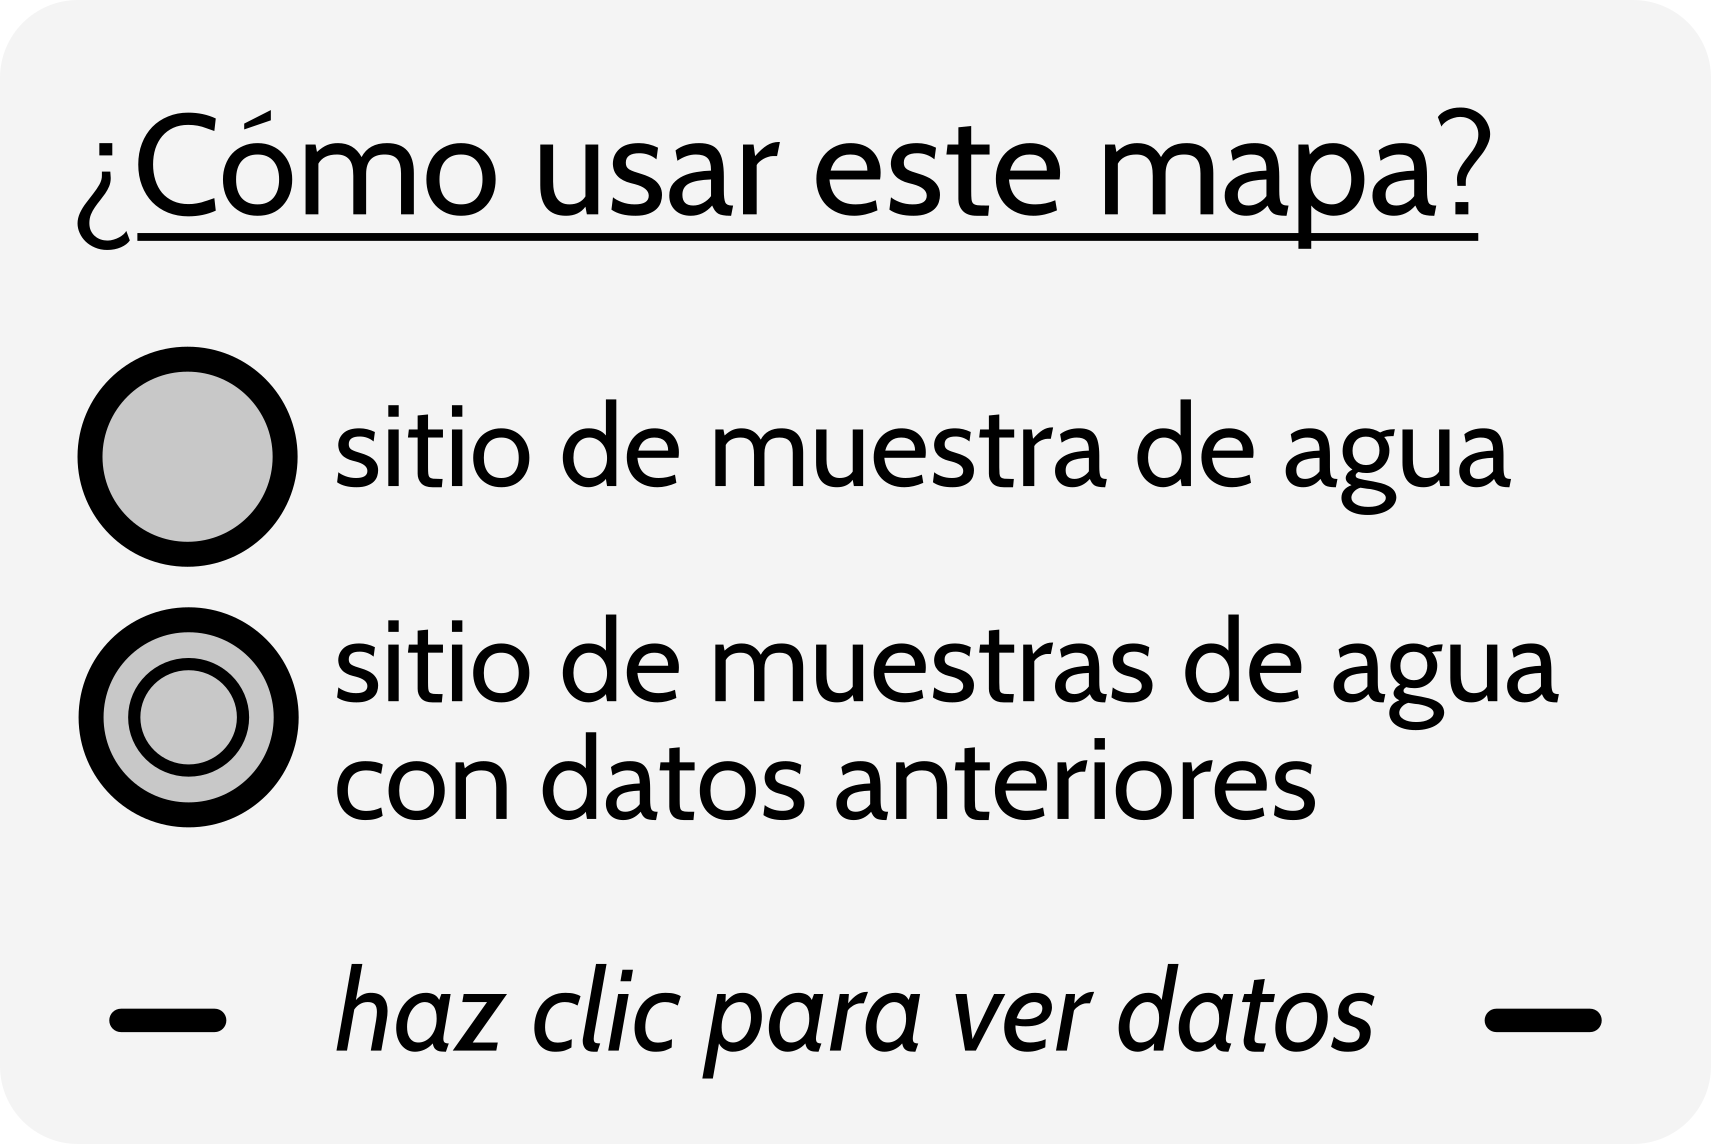
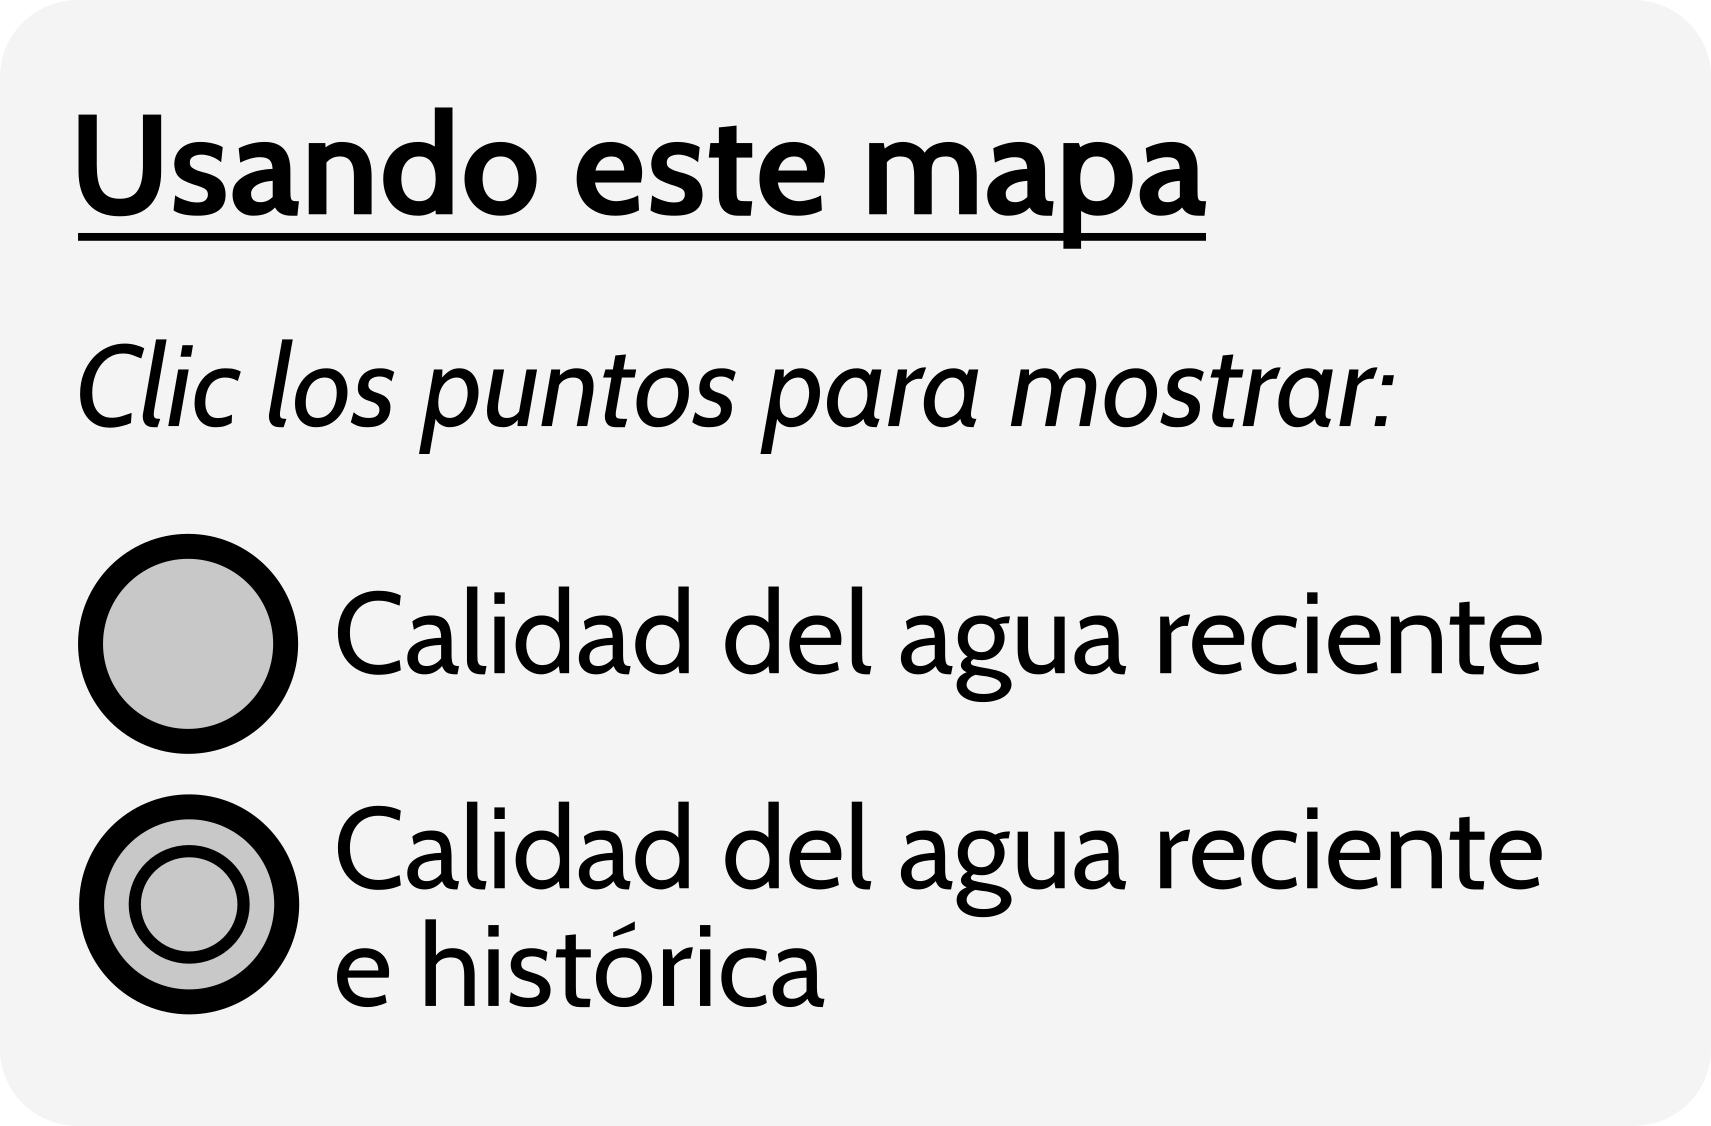
update how2read and x and ?

Changed region(s): [[0.031, 0.2798, 0.9293, 0.9325], [0.031, 0.0933, 0.8673, 0.2176], [0.8673, 0.8703, 0.9603, 0.9014]]

diff --git a/js/scripts.js b/js/scripts.js
@@ -76,7 +76,7 @@ function setGlobals() {
 	//document.getElementById("as_title").innerHTML = AS_TITLE;
 	//document.getElementById("risk_title").innerHTML = RISK_TITLE;
 	document.getElementById("how_to_read").src = HOW2READ_URL;
-	document.getElementById("help_button").src = HELP_URL;
+	//document.getElementById("help_button").src = HELP_URL;
 
 	document.getElementById("search").innerHTML = SEARCH_HELPER_TEXT;
 
@@ -865,32 +865,37 @@ $(document).bind('keypress', function (event) {
 ////	hovering over it.													////
 ////////////////////////////////////////////////////////////////////////////////
 
-function changeHelpSrc(type) {
-	if (type == "hover") {
-		document.getElementById("help_button").src = HELP_URL_HOVER;
-	} else {
-		document.getElementById("help_button").src = HELP_URL;
-	}
-}
+//function changeHelpSrc(type) {
+//	if (type == "hover") {
+//		document.getElementById("help_button").src = HELP_URL_HOVER;
+//	} else {
+//		document.getElementById("help_button").src = HELP_URL;
+//	}
+//}
 
 ////////////////////////////////////////////////////////////////////////////////
 ////					 	openHelp/closeHelp FUNCTION 				  	////
 //// 			Opens/closes the help dialog box.							////
 ////////////////////////////////////////////////////////////////////////////////
 
-
-function openHelp() {
-	document.getElementById("help_button").style.display = "none";
-	document.getElementById("how_to_read").style.display = "inline-block";
-	document.getElementById("x_button").style.display = "inline-block";
-}
-
-function closeHelp () {
-	document.getElementById("help_button").style.display = "inline-block";
-	document.getElementById("how_to_read").style.display = "none";
-	document.getElementById("x_button").style.display = "none";
+function toggleHelp() {
+	$('#help_button').toggleClass('active');
 
 }
+
+
+//function openHelp() {
+//	document.getElementById("help_button").style.display = "none";
+//	document.getElementById("how_to_read").style.display = "inline-block";
+//	document.getElementById("x_button").style.display = "inline-block";
+//}
+//
+//function closeHelp () {
+//	document.getElementById("help_button").style.display = "inline-block";
+//	document.getElementById("how_to_read").style.display = "none";
+//	document.getElementById("x_button").style.display = "none";
+//
+//}
 
 ///////////////////////////////////////////////////////////////////
 ////			function enable/disableMapControls 				////

diff --git a/styles/map_styles_English.css b/styles/map_styles_English.css
@@ -144,19 +144,21 @@ img.legend {
 }
 
 #how_to_read {
-	display: inline-block;
+	display: block;
 	z-index: 30000;
 	position: absolute;
-	right: 15px;
-	top:4%;
+	right: 20px;
+	top: 20px;
 	height: 200px;
 	box-shadow: 2px 2px 3px 0px rgba(0,0,0,0.3);
 	border-radius: 5%
-	
 }
 
+#how_to_read.inactive{}
+
 .toggle_button {
-	display: inline-block;
+	content: url('https://ask53.github.io/wqm-map-demo1/img/HowToRead_QuestionMark.png');
+	display: block;
 	z-index: 30002;
 	position: absolute;
 	right: 30px;
@@ -164,12 +166,16 @@ img.legend {
 }
 
 .toggle_button:hover {
+	content: url('https://ask53.github.io/wqm-map-demo1/img/HowToRead_QuestionMark_hover.png');
 	cursor: pointer;
 }
 
-#x_button {
-	height: 4%;
-	top: 8%;
+.toggle_button.active {
+	content: url('https://ask53.github.io/wqm-map-demo1/img/howToRead_X.png');
+}
+
+.toggle_button.active:hover {
+	content: url('https://ask53.github.io/wqm-map-demo1/img/howToRead_X_hover.png');	
 }
 
 #help_button {

diff --git a/index.html b/index.html
@@ -165,9 +165,10 @@
 			
 			<img class="legend" id="risk_legend" style='display: none'></img>
 			
-			<img id="help_button" style="display: none;" class="toggle_button" onmouseenter="changeHelpSrc('hover')" onmouseleave="changeHelpSrc('leave')" onclick="openHelp()"></img>
+			<!--onmouseenter="changeHelpSrc('hover')" onmouseleave="changeHelpSrc('leave')"--> 
+			<img id="help_button" class="toggle_button active" onclick="toggleHelp()"></img>
 			<img id="how_to_read" onmouseenter="disableMapControls();" onmouseleave="enableMapControls();"></img>
-			<img id="x_button" class="toggle_button" src="https://caminosdeagua.github.io/wqm-map/img/xButton2.png" onclick="closeHelp()"></img>
+			<!--<img id="x_button" class="toggle_button" src="https://caminosdeagua.github.io/wqm-map/img/xButton2.png" onclick="closeHelp()"></img>-->
 			
 			
 		</div>	
